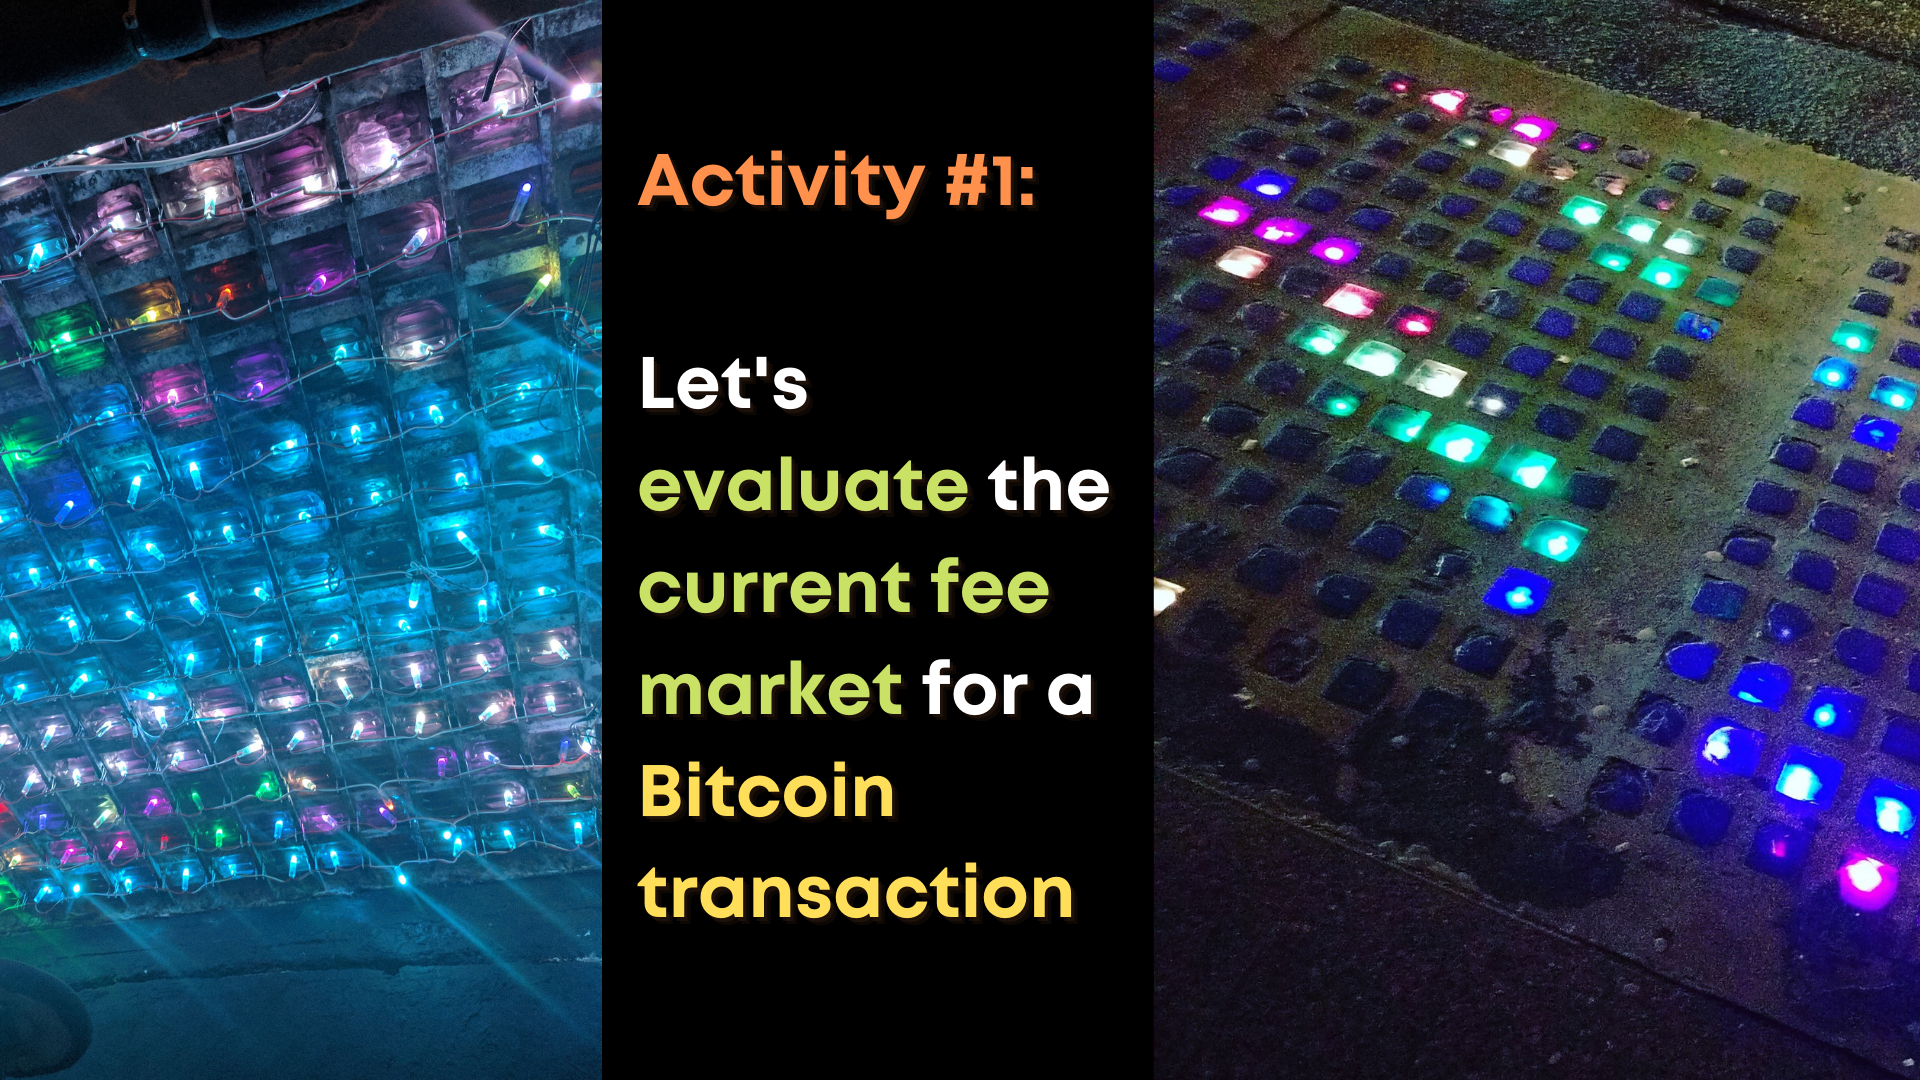
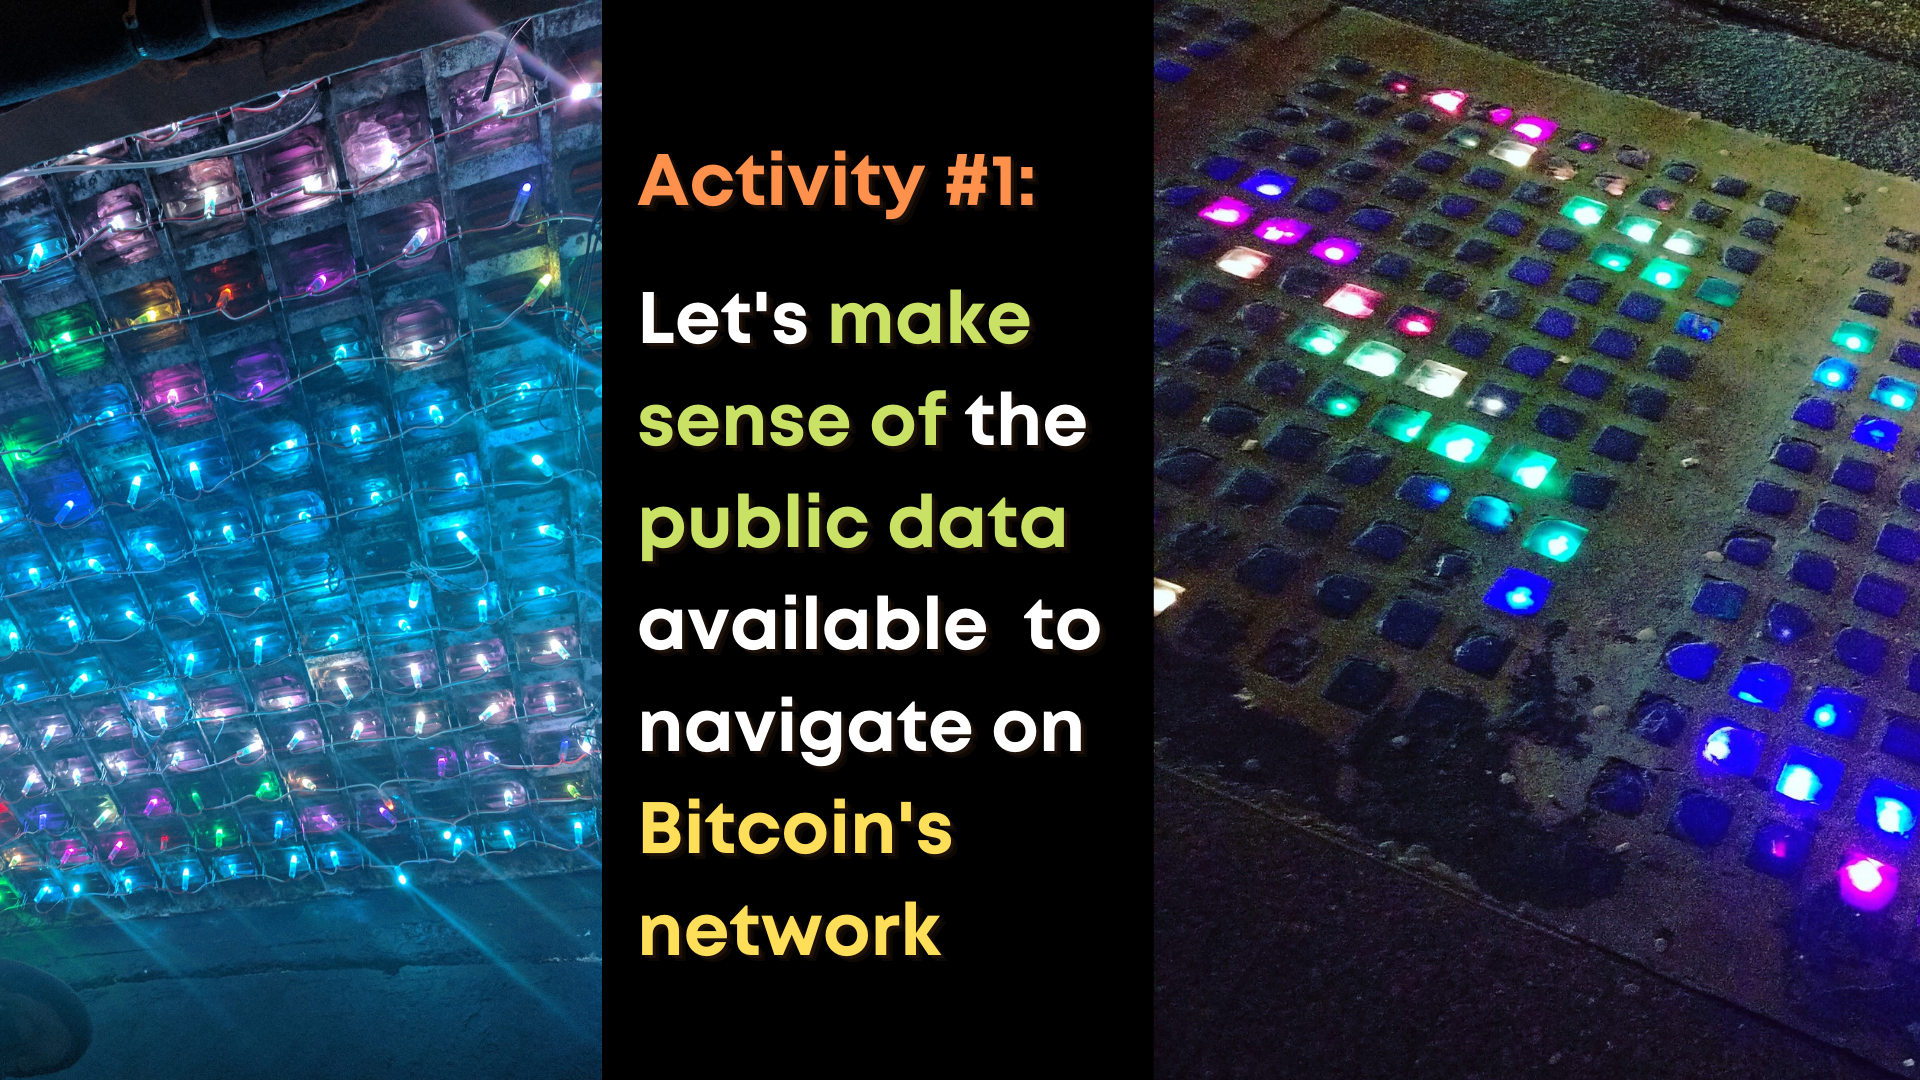
staging initial changes v3

Changed region(s): [[0.3125, 0.275, 0.5938, 0.8861]]

diff --git a/content/intro.md b/content/intro.md
@@ -1,8 +1,8 @@
 ---
 layout: default
-title: Introduction to Blockchain and Decentralization
+title: Introduction to Bitcoin and Blockchain
 permalink: /concepts/
-parent: Part 1 - Establishing Concepts
+parent: Part 1 - Exploring Concepts
 nav_order: 1
 ---
 
@@ -11,47 +11,43 @@ nav_order: 1
 ![Intro 1](figures/intro-1.png)
 <br>
 
-* At its base, "[blockchain](https://en.bitcoin.it/wiki/Block_chain)" simply refers to a type of data structure which is *simple for anyone to verify* and *difficult for anyone to change*.
+### At its base, "[blockchain](https://en.bitcoin.it/wiki/Block_chain)" simply refers to a type of data structure which is *simple for anyone to verify* and *difficult for anyone to change*.
 
-* Usually, when people *say* blockchain, they're referring more generally to the ledgers, cryptocurrencies, or decentralized consensus mechanisms being used in blockchain systems.
+Usually, when people *say* blockchain, they're referring more generally to the **ledgers**, **cryptocurrencies**, or **decentralized consensus mechanisms** which serve as components in the systems around blockchain structures.
 
-![Screenshot from Bitcoin.it Wiki](figures/blockchain_btcwiki.png)
-<br>
-<br>
-Screenshot from [Bitcoin Wiki](https://en.bitcoin.it/wiki/Block_chain), CC-A 3.0
-<br>
-<br>
+### Please navigate with me to the original [Bitcoin.it Wiki](https://en.bitcoin.it/wiki/Block_chain) to review their description of blockchain data structures.
 
 # Origins: The 2008 Bitcoin Whitepaper
 
 ![Intro 2](figures/intro-2.png)
 <br>
 
-**[Satoshi Nakamoto's Bitcoin whitepaper](https://bitcoin.org/bitcoin.pdf)**: launching the toolkit for cryptoeconomics
+### **[Satoshi Nakamoto's Bitcoin whitepaper](https://bitcoin.org/bitcoin.pdf)** launched the toolkit for cryptoeconomics, and should be read by everyone who is serious about participating in, or studying, the blockchain field.
 
+The innovations it interweaves include:
  * A chain of immutable, timestamped data blocks which build upon one another (*timechain*)
- * Use of [competitive computing power](https://medium.com/certik/how-bitcoin-works-mining-and-consensus-3d64bf893ba2) (*Proof of Work*) to secure the network (many computers across the world confirm transactions, rather than a centralized authority)
+ * Use of [competitive computing power](https://medium.com/certik/how-bitcoin-works-mining-and-consensus-3d64bf893ba2) (*Proof of Work*) to secure the network (in which many computers across the world confirm transactions, rather than a centralized authority)
  * An [antifragile](https://en.wikipedia.org/wiki/Antifragile#Introduction) distributed consensus-based network system (e.g. [resistant to Sybil attacks](https://en.wikipedia.org/wiki/Sybil_attack))
 
-In Fall 2020, we made this set of [short videos](https://www.youtube.com/playlist?list=PLvhhoxakT2WAKm6WKFEf3iPQWGAjl8QYR) explaining each section of the Bitcoin whitepaper in ~5 min or less.
+In Fall 2020, UBC Bitcoin Club and Carpe Lunam Events created this set of [short videos](https://www.youtube.com/playlist?list=PLvhhoxakT2WAKm6WKFEf3iPQWGAjl8QYR) explaining each section of the Bitcoin whitepaper in ~5 min or less. 
 
-# Bitcoin: A Success Story, Slow Then Fast
+For now, it's useful to understand that Bitcoin borrows from:
+
+* the field of **cryptography** to ensure network security and pseudonymity 
+
+Taken all together, this original technical paper presents all the components necessary for Bitcoin's multidisciplinary foundations and eventual global success story.
+
+# Bitcoin's Success Story: Slow Then Fast
 
 ![Intro 3](figures/intro-3.png)
 <br>
 
-* The snowball effect of community adoption: inventing value "out of thin air" (e.g. Laszlo Hanyecz's [Bitcoin Pizza](https://www.coindesk.com/bitcoin-pizza-10-years-laszlo-hanyecz))
+### The snowball effect of community adoption: bitcoin helped people besides economists recognize that value is largely a matter of belief. 
 
-* After Bitcoin adoption began to pick up, *people wanted to copy its success*:  this led to the age of ["altcoins"](https://hackernoon.com/about-bitcoin-what-altcoins-and-shitcoins-dont-seem-to-get-rs53323w) (which began by simply *forking* Bitcoin, or copying its codebase)
+Early adopters had to demonstrate their belief in this "magical internet money's" value in order for others to begin to place value in it (e.g. Laszlo Hanyecz's [Bitcoin Pizza](https://www.coindesk.com/bitcoin-pizza-10-years-laszlo-hanyecz)).
 
-* Excited developers wanted to see peer-to-peer technology go beyond *money* - the next major movements came with the creation of [Ethereum](https://ethereum.org/en/what-is-ethereum/)
+### After Bitcoin adoption began to pick up, *people wanted to copy its success*:  this led to the age of ["altcoins"](https://hackernoon.com/about-bitcoin-what-altcoins-and-shitcoins-dont-seem-to-get-rs53323w).
 
-# What About "Decentralization"?
+This trend began with simply *forking* Bitcoin, or copying its codebase, then making changes or attempting to add new features.
 
-![Cryptoeconomics 3](figures/crypto-3.png)
-<br>
-
-[Why Decentralization Matters](https://onezero.medium.com/why-decentralization-matters-5e3f79f7638e): 'Coding In' decentralization as an attempt to reclaim the promise of the open World Wide Web (e.g. [Decentralized Web Summit](https://www.decentralizedweb.net/about/))
-
-![Cryptoeconomics 4](figures/crypto-4.png)
-<br>
+### Excited developers wanted to see peer-to-peer technology go beyond *money* - the next major movements came with the creation of [Ethereum](https://ethereum.org/en/what-is-ethereum/).

diff --git a/content/usecase2.md b/content/usecase2.md
@@ -8,11 +8,11 @@ nav_order: 3
 
 # Research Use Case: Community Research (STS)
 
-**Primary Focus**: How do communities around emerging technologies behave?
+### **Primary Focus**: How do communities around emerging technologies behave?
 
 **Proximal Disciplines**: Sociology, Anthrolopology, Cultural Theory, Psychology, Science and Technology Studies
 
-**Example Research Questions**:
+### **Example Research Questions**:
 
 * How do cryptocurrency users conceptualize the notion of 'trust'?
 * What are the major ideological divides between Bitcoiners and Ethereans?
@@ -20,7 +20,7 @@ nav_order: 3
 
 **Major Concepts in Play**: [Trustlessness](https://www.preethikasireddy.com/post/what-do-we-mean-by-blockchains-are-trustless), [Decentralists](https://medium.com/@bit_novosti/a-crypto-decentralist-manifesto-6ba1fa0b9ede), [Cypherpunks](https://www.activism.net/cypherpunk/manifesto.html), ['Toxic Maximalism'](https://bitcoinmagazine.com/culture/op-ed-why-bitcoins-toxic-maximalism-makes-sense)
 
-**Risks to Consider**:
+### **Risks to Consider**:
 
 * Highest risk of personal harm to research subjects (individualized focus)
 * Difficult to gain trust/'insider status' in these communities
@@ -31,18 +31,18 @@ nav_order: 3
 
 # Research Use Case: Law and Public Policy
 
-**Primary Focus**: How do we adjust law and policy to best fit these new technologies?
+### **Primary Focus**: How do we adjust law and policy to best fit these new technologies?
 
 **Proximal Disciplines**: Law, Public Policy, Accounting, Economics, History, Sociology
 
-**Example Research Questions**:
+### **Example Research Questions**:
 
 * Do blockchain developers hold [fiduciary responsibility](https://papers.ssrn.com/sol3/papers.cfm?abstract_id=3203198)?
 * Should cryptocurrency be regulated as a currency, an asset, a security, or something elsea?
 
 **Major Concepts in Play**: [Sovereignty](https://bitcoinmagazine.com/culture/bitcoin-unleashes-the-sovereign-individual), [Governance](https://www.ourmachine.net/writing/byzantine-generalization-problem/), [Permissionlessness](https://www.corda.net/blog/permissionlessness-a-simple-concept-with-profound-implications/), [Smart Contracts](https://ethereum.org/en/developers/docs/smart-contracts/)
 
-**Risks to Consider**:
+### **Risks to Consider**:
 
 * Can be challenging to map slow-moving law and policy sectors to the "move fast and break things" speed of disruptive technology
 * Participants in this ecosystem are often inherently suspicious of law and policy collaborators
@@ -52,11 +52,11 @@ nav_order: 3
 
 # Research Use Case: Advocacy and Ethics
 
-**Primary Focus**: How can we prevent the potential exploitation of these technologies to control, track, or otherwise harm populations?
+### **Primary Focus**: How can we prevent the potential exploitation of these technologies to control, track, or otherwise harm populations?
 
 **Proximal Disciplines**: Public Policy, Social Work, Philosophy, Non-Profit Management, Humanities
 
-**Example Research Questions**:
+### **Example Research Questions**:
 
 * What are the mechanisms for transparency and accountability amongst the major public blockchains?
 * What grounding principles should smart contract developers keep in mind when writing self-executing code?
@@ -64,7 +64,7 @@ nav_order: 3
 
 **Major Concepts in Play**: [Game Theory](https://ncase.me/trust/), [Governance](https://www.ourmachine.net/writing/byzantine-generalization-problem/), [Trustlessness](https://www.preethikasireddy.com/post/what-do-we-mean-by-blockchains-are-trustless)
 
-**Risks to Consider**:
+### **Risks to Consider**:
 
 * Difficult to identify what is "the path of least harm," especially when you are new to these complex intersecting domains
 * As someone deeply engaged in this facet of research myself: it runs the highest risk of ending up in vain :/

diff --git a/content/glossary.md b/content/glossary.md
@@ -1,0 +1,92 @@
+---
+layout: default
+title: Glossary of Concepts
+permalink: /glossary/
+parent: Part 1 - Exploring Concepts
+nav_order: 3
+---
+
+# Contextualizing Cryptoeconomics
+
+![Cryptoeconomics 1](figures/crypto-1.png)
+<br>
+
+* Defining [cryptoeconomics](https://en.wikiversity.org/wiki/Cryptoeconomics)
+
+* Key concepts: 
+    * **append-only** (*immutable*)
+    * **peer to peer** (*verifiable*)
+    * **uncensorable** (*self-sovereign*)
+
+Brings in elements of:
+
+* Computer science and cryptography
+* Complex distributed systems engineering
+* Archival and information science
+* Economics and game theory
+
+# Glossary
+
+**Address**
+
+**Altcoins**
+
+**Antifragility**
+
+**Bitcoin**
+
+**[Blockchain]**(https://en.bitcoin.it/wiki/Block_chain) is a type of data structure which is *simple for anyone to verify* and *difficult for anyone to intentionally change*.
+*  a literal **chain** of **data blocks**.
+
+**Consensus Algorithms**
+
+**Custodial**
+
+**Cryptocurrency**
+
+**Cryptoeconomics**
+
+**Cypherpunks**
+
+**Decentralization**
+
+**Decentralized Autonomous Organizations (DAOs)**
+
+**DeFi**
+
+**Ethereum**
+
+**Fork(ing)**
+
+**Immutability**
+
+**Layer 2**
+
+**Lightning Network**
+
+**Node**
+
+**Opt In Privacy**
+
+**Proof of Work** is the *consensus algorithm* utilized by Bitcoin, which utilizes [competitive computing power](https://medium.com/certik/how-bitcoin-works-mining-and-consensus-3d64bf893ba2) from voluntary participants to secure the network.
+* many computers across the world validate transactions transparently by doing complex math problems- *proving their work*.
+
+**Pseudonymity**
+
+**Seed Phrase/Key**
+
+**Self Sovereign**
+
+**Solidity**
+
+**Smart Contracts**
+
+**Sybil Attack**
+
+**Timestamping**
+
+**Trustlessness**
+
+**Wallet**
+
+**Voluntaryism**

diff --git a/content/resources.md b/content/resources.md
@@ -1,29 +1,10 @@
 ---
 layout: default
-title: Cryptoeconomic Concepts
-permalink: /cryptoeconomics/
-parent: Part 1 - Establishing Concepts
-nav_order: 2
+title: Navigating Online Resources
+permalink: /resources/
+parent: Part 2 - Research Use Cases
+nav_order: 4
 ---
-
-# Contextualizing Cryptoeconomics
-
-![Cryptoeconomics 1](figures/crypto-1.png)
-<br>
-
-* Defining [cryptoeconomics](https://en.wikiversity.org/wiki/Cryptoeconomics)
-
-* Key concepts: 
-    * **append-only** (*immutable*)
-    * **peer to peer** (*verifiable*
-    * **uncensorable** (*self-sovereign*)
-
-Brings in elements of:
-
-* Computer science and cryptography
-* Complex distributed systems engineering
-* Archival and information science
-* Economics and game theory
 
 # Navigating/Evaluating Online Resources 
 
@@ -37,7 +18,6 @@ Brings in elements of:
 * *How* to verify? Look for major sources ([Andreas Antonopoulos](https://aantonop.com/) is one of the original and the best) and voices to start following. That doesn't mean trust everything they say, of course, but start to curate the sources that make sense to you!
 
 Before diving into blockchain-specific resources, I'll share the best 'game theory' orientation I've ever found- [Nicky Case's ~30 min game 'The Evolution of Trust'](https://ncase.me/trust/).
-
 
 ### Bitcoin Resources 
 

diff --git a/content/lesson-plan.md b/content/lesson-plan.md
@@ -7,7 +7,6 @@ has_children: true
 has_toc: true
 ---
 
-
 ### Goal of this workshop
 
 Our goal is to establish foundational knowledge around blockchain technology, its originating communities and disciplines, and the types of research that can be conducted in this field. 
@@ -21,13 +20,15 @@ This is your session. If you have a question or feel we are going too fast, plea
 | Time | Content
 | --- | ---
 | 0:05 | [How to Participate in the Session](participating-online.md)
-| [Part 1](part-01.md)
-| 0:10 | [Introduction to Blockchain and Decentralization](intro.md)
-| 0:25 | [Conceptual Glossary](concepts.md)
-| 0:35 | [Technical Activities](activity.md)
-| [Part 2](part-02.md)
+| [Part 1: Exploring Concepts](part-01.md)
+| 0:10 | [Introduction to Bitcoin and Blockchain](intro.md)
+| 0:25 | [Technical Activities](activity.md)
+| 0:45 | [Conceptual Glossary](concepts.md)
+| [Part : Research Use Cases](part-02.md)
 | 0:50 | [Orienting to Blockchain Research Pathways](research-paths.md)
 | 1:00 | [Technical & Product Research Use Cases](usecase1.md)
-| 1:15 | [Sociological and Advocacy Research Use Cases](usecase2.md)
+| 1:10 | [Sociological and Advocacy Research Use Cases](usecase2.md)
+| 1:20 | [Navigating Online Resources](resources.md)
+
 
 _Actual schedule may vary depending on group needs_

diff --git a/content/acknowledgements.md b/content/acknowledgements.md
@@ -5,6 +5,7 @@ nav_order: 20
 ---
 ## Acknowledgements
 
-Site template adapted from the [just-the-docs](https://github.com/pmarsceill/just-the-docs) Jekyll template created by [Patrick Marsceil](https://github.com/pmarsceill) and available under the [MIT License](http://opensource.org/licenses/MIT).
+The [workshop site](https://ubc-library-rc.github.io/intro-blockchain-research) uses the [Just the Docs](https://github.com/pmarsceill/just-the-docs) Jekyll theme.
 
-Unless otherwise indicated, all images are original photographs and digital art by Chelsea Palmer, primarily created over the period of 2016-2019, and licensed under a <a rel="license" href="http://creativecommons.org/licenses/by/4.0/">Creative Commons Attribution 4.0 International License</a>.
+Unless otherwise indicated, all images are original photographs and digital art by Chelsea Palmer, primarily produced over the period of 2016-2019, and licensed under a <a rel="license" href="http://creativecommons.org/licenses/by/4.0/">Creative Commons Attribution 4.0 International License</a>.
+

diff --git a/content/research-paths.md b/content/research-paths.md
@@ -23,3 +23,13 @@ First let's revisit and review the the originating disciplines which contribute 
 * This fast-paced, small-scale set of intertwining communities provides a veritable live lab for the many disciplines tied into cryptoeconomics
 * Keep in mind that their participants are *real people* just as much at risk of harm or exploitation as any other population you'd study
 * In each exemplar use case to follow, we'll touch more upon the particular risks and pain points that arise when researching, or even engaging, with the communities around disruptive technologies like blockchain
+
+# What About "Decentralization"?
+
+![Cryptoeconomics 3](figures/crypto-3.png)
+<br>
+
+[Why Decentralization Matters](https://onezero.medium.com/why-decentralization-matters-5e3f79f7638e): 'Coding In' decentralization as an attempt to reclaim the promise of the open World Wide Web (e.g. [Decentralized Web Summit](https://www.decentralizedweb.net/about/))
+
+![Cryptoeconomics 4](figures/crypto-4.png)
+<br>

diff --git a/content/activity.md b/content/activity.md
@@ -1,12 +1,12 @@
 ---
 layout: page
-title: Hands-on Learning Activity
+title: Hands-on Learning Activities
 permalink: /activity/
-parent: Part 1 - Establishing Concepts
-nav_order: 3
+parent: Part 1 - Exploring Concepts
+nav_order: 2
 ---
 
-# Activity 1: Explore Bitcoin's Mempool
+# Activity 1: Explore and Contextualize Public Bitcoin Data
 
 ![Activity 1](figures/activity-1.png)
 <br>
@@ -15,7 +15,7 @@ Please navigate with me to [Johoe's Bitcoin Mempool Statistics](https://jochen-h
 
 **Bonus**: A different [mempool virtualization site](https://mempool.space/), and a more utilitarian presentation of [fee size related to transaction confirmation times](https://bitcoinfees.earn.com/#delay).
 
-# Activity 2: View Transactions from a Known Ethereum Addresss
+# Activity 2: Review Transactions from a Known Ethereum Addresss
 
 ![Activity 2](figures/activity-2.png)
 <br>

diff --git a/content/part-01.md b/content/part-01.md
@@ -1,6 +1,6 @@
 ---
 layout: default
-title: Part 1 - Establishing Concepts
+title: Part 1 - Exploring Concepts
 permalink: /part-01/
 nav_order: 3
 has_children: true
